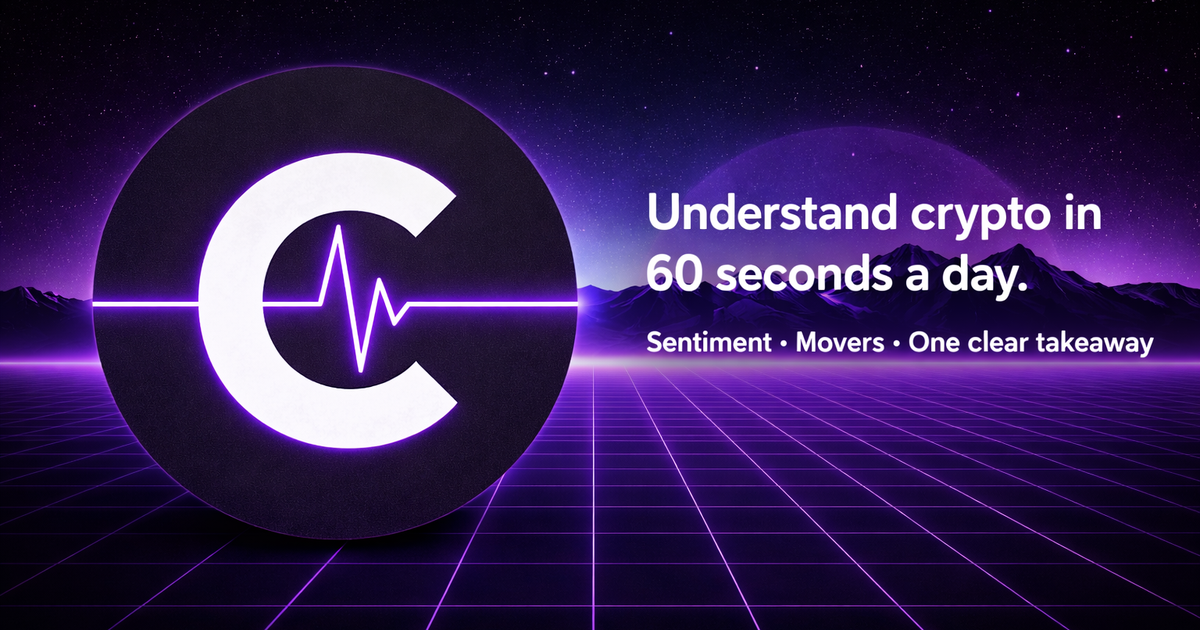
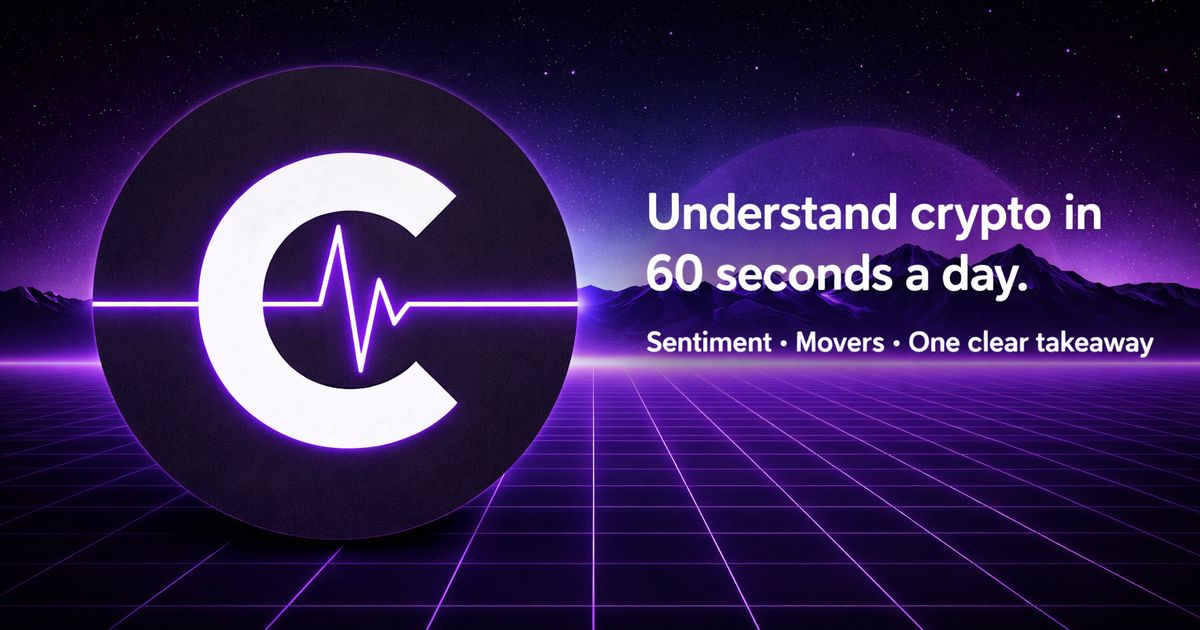
add new og image

Changed region(s): [[0.3083, 0.4524, 0.3392, 0.5127], [0.8325, 0.9349, 0.8633, 0.9651], [0.2158, 0.9952, 0.2467, 1.0]]

diff --git a/src/app/page.js b/src/app/page.js
@@ -28,6 +28,12 @@ export const metadata = {
     ],
     type: "website",
   },
+  twitter: {
+    card: "summary_large_image",
+    title: "CryptoBriefs - Latest Crypto News, Insights, and Trends",
+    description: "Daily crypto brief + news sentiment. Fast signal without the noise.",
+    images: ["https://cryptobriefs.net/og-image.png"],
+  },
   robots: {
     index: true,
     follow: true,
